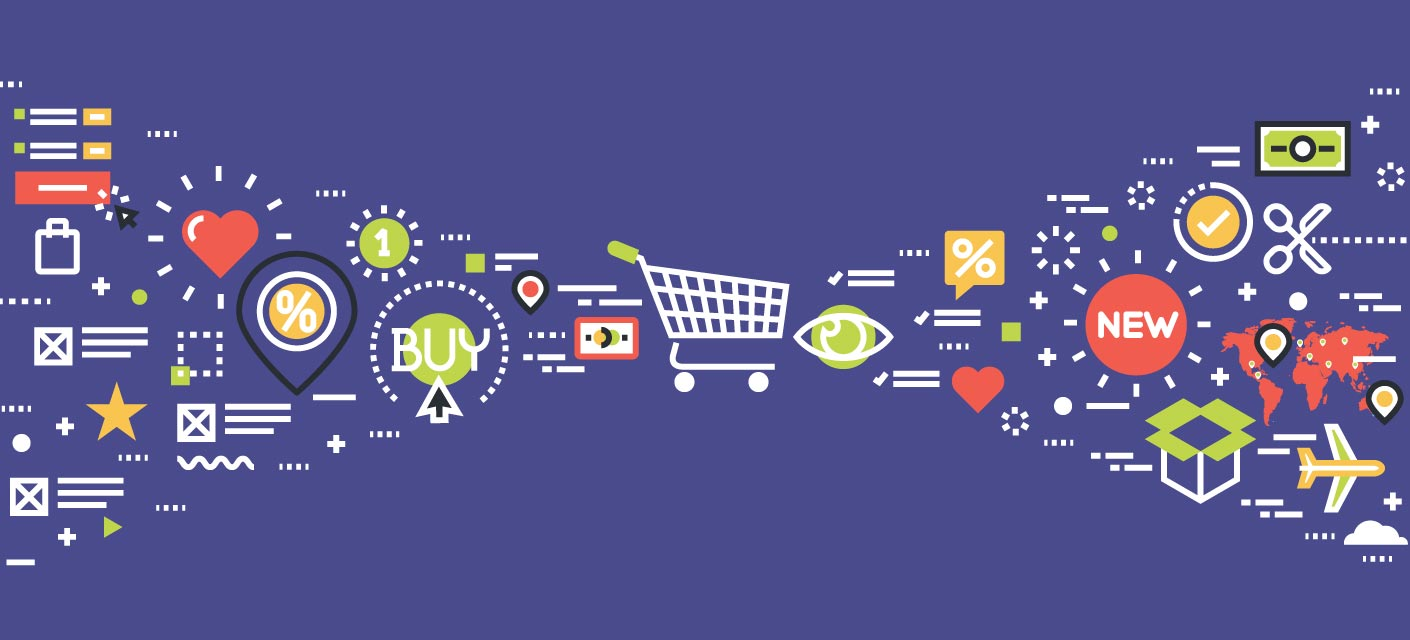
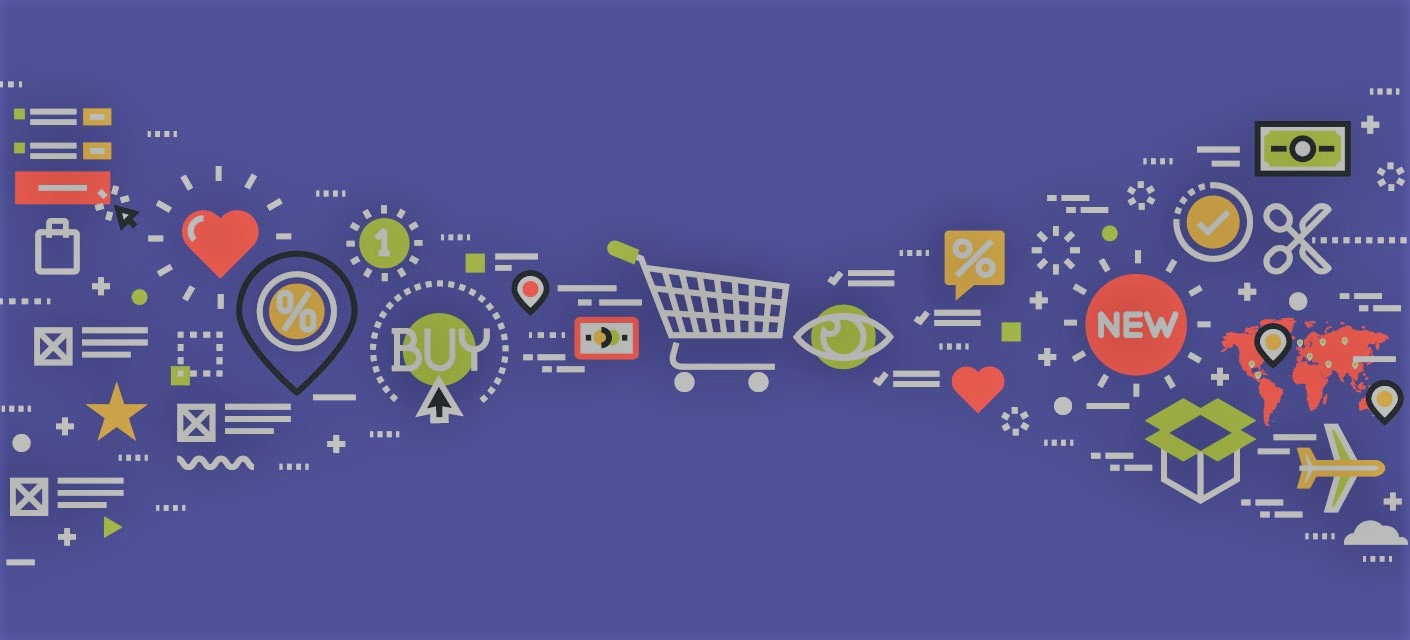
Home page update and premium page
-Added images to premium carousel and changed text colors in home page

diff --git a/Python/templates/premium.html b/Python/templates/premium.html
@@ -20,17 +20,17 @@
         </ol>
         <div class="carousel-inner">
           <div class="carousel-item active">
-            <img src="static/images/thanos.jpg" class="d-block w-100" alt="...">
+            <img src="static/images/discount.jpg" class="d-block w-100" alt="...">
             <div class="carousel-caption d-none d-md-block">
-              <h5>Discounts</h5>
-              <p>Get up to 10% off on items!</p>
+              <h5 class="carousel-text">Discounts</h5>
+              <p class="carousel-text">Get up to 10% off on items!</p>
             </div>
           </div>
           <div class="carousel-item">
-            <img src="static/images/thanos.jpg" class="d-block w-100" alt="...">
+            <img src="static/images/shipping.png" class="d-block w-100" alt="...">
             <div class="carousel-caption d-none d-md-block">
-              <h5>Free Shipping</h5>
-              <p>Free shipping on all items to the lower 48 states.</p>
+              <h5 class="carousel-text">Free Shipping</h5>
+              <p class="carousel-text">Free shipping on all items to the lower 48 states.</p>
             </div>
           </div>
         </div>

diff --git a/Python/templates/index.html b/Python/templates/index.html
@@ -5,10 +5,10 @@
 
     <main role="main" class="inner cover">
       <div class="container">
-      <h1 class="cover-heading">Welcome to the Shop</h1>
-      <p class="lead text-muted" style="color:white;">We sell stuff.</p>
+      <h1 class="cover-heading">Welcome to RTG Clothing</h1>
+      <p class="lead">Newest clothing from over 100 brands.</p>
           <p>
-            <a href="shop.html" class="btn btn-primary my-2">Buy Something?</a>
+            <a href="shop.html" class="btn btn-primary my-2">Visit the Store</a>
             {% if not loggedin %}
                 <a href="signup.html" class="btn btn-secondary my-2">Sign Up</a>
             {% endif %}

diff --git a/Python/static/css/album.css b/Python/static/css/album.css
@@ -42,3 +42,11 @@ footer {
     width: 100%;
     background-color:transparent;
 }
+
+.cover-heading{
+    color:white;
+}
+
+.lead{
+    color:silver;
+}

diff --git a/Python/static/css/wishlist.css b/Python/static/css/wishlist.css
@@ -21,3 +21,7 @@ footer{
 .alert {
     margin-top:1rem;
 }
+
+.carousel-text{
+    color:black;
+}
